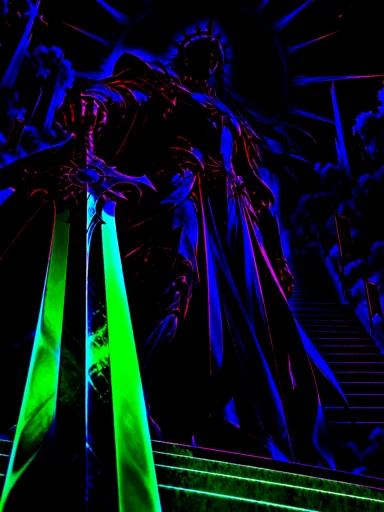
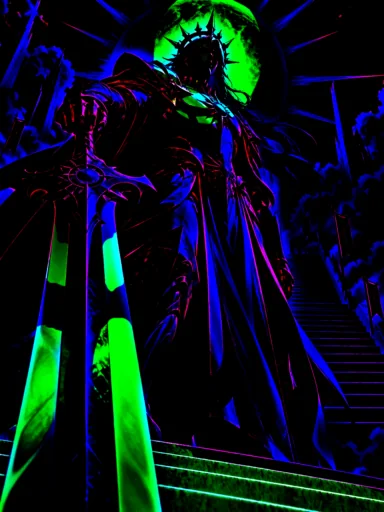
feat(cards): 传说卡与契约神补上眨眼与刚性道具层
五张仍用自动模板的传说/契约神卡补齐：逐日者·索拉（双眼 + 盾）、蚀月狼王（侧脸单眼）、
守灯巨兽（盾与握盾的手）、曙日神·奥瑞恩（双眼 + 按剑的手与长剑）、荒猎神·芬洛斯（单眼）。

- 自动模板支持道具层：AUTO_PROPS 多边形烘焙成刚性前景，着色器里道具随呼吸整体起伏、
  不随外缘摆动（无道具的卡 FR=0，不受影响）。
- 补了眼睛的自动卡在烘焙时把与眼睛深度相近的头部并入人物层：仰拍角色的头原本被分进
  背景，既不眨眼、颈部也会随呼吸错开。背景层也执行眨眼，作为兜底。
- 眨眼修正：上眼睑以下露出的眼睛保持原样，不再把眼白挤成一道亮线（所有角色受益）。
- 自动模板的闪烁改用连续噪声，放大后不再出现棋盘格色块。

diff --git a/src/presentation/live-art.js b/src/presentation/live-art.js
@@ -110,14 +110,15 @@ vec3 blink(vec2 px, vec2 c, vec2 hs, float tilt, float k, inout vec2 skin){
   if (y < top - 7. || y > bot + 1.) return vec3(px, 0.);
   if (y < line - la) w = smoothstep(top - 7., top - 2., y)*smoothstep(0., .12, kk)*smoothstep(0., .3, fx);
   else if (y <= line + lb) y -= span;
-  else y = mix(top + lb, bot, (y - (line + lb))/max(bot - (line + lb), .001));
+  // below the lid the rest of the eye is uncovered, as it is
   skin = toW(vec2(p.x, bot + 5.), c, tilt);
   return vec3(toW(vec2(p.x, y), c, tilt), w);
 }
 void main(){
   vec2 uv = vUv, skinPx = vec2(0.);
   float shade = 0.;
-  if (uLayer == 1) {
+  // The figure's eyes blink; the background layer too, in case a face was left in it.
+  if (uLayer != 2) {
     vec3 bb = vec3(vUv*IMG, 0.);
 ${rig.eyes
   .map(
@@ -170,11 +171,14 @@ ${rig.fx}
     "  d += rot(px, uAnchor.xy, radians(.35)*sin(TAU*t/6.1 + ph)) - px;",
     "  d.x += PER*1.5*sin(TAU*t/3.1 + px.y*.01 + ph);",
     "}",
+    // A held prop (FR) moves rigidly: it rides the breath, never the sway.
+    "d = mix(d, vec2(.5*sin(TAU*t/6.7 + ph), -2.2*(breath(t + ph)*2. - 1.)), FR);",
   ].join("\n");
   const AUTO_FX = [
     "float ph = uPhase;",
-    "vec2 cell = floor(vUv*vec2(200., 266.));",
-    "c.rgb += c.rgb*k.r*(.55*sin(t*(1. + h21(cell)*1.6) + h21(cell + 3.)*6.28) + .1)*uFx;",
+    // continuous noise, not per-cell hashes: enlarged, cells read as blocks
+    "float tw = vn(vUv*vec2(200., 266.))*6.28, sp = 1. + vn(vUv*vec2(90., 120.) + 5.)*1.6;",
+    "c.rgb += c.rgb*k.r*(.55*sin(t*sp + tw) + .1)*uFx;",
     "float flow = vn(vec2(vUv.x*12. + ph, vUv.y*12. - t*.4))*vn(vec2(vUv.x*27. - t*.25, vUv.y*23. + ph));",
     "c.rgb += c.rgb*k.b*((flow - .2)*uGlowAmt + .08*sin(t*TAU/3.3 + ph))*uFx;",
     "float band = dot(vUv - vec2(.5), normalize(vec2(.35, -1.)));",

diff --git a/src/live-art-auto.js b/src/live-art-auto.js
@@ -49,14 +49,14 @@ const EmberLiveArtAuto = Object.freeze({
  "aurion": {
   "kind": "creature",
   "box": [
-   18,
-   618,
-   980,
-   1440
+   24,
+   42,
+   954,
+   1438
   ],
   "centre": [
-   331,
-   1153
+   376,
+   935
   ],
   "particles": "embers",
   "phase": 1.22
@@ -259,14 +259,14 @@ const EmberLiveArtAuto = Object.freeze({
  "eclipsewolf": {
   "kind": "creature",
   "box": [
-   48,
-   1208,
-   1004,
-   1444
+   62,
+   118,
+   988,
+   1442
   ],
   "centre": [
-   529,
-   1340
+   523,
+   1070
   ],
   "particles": "frost",
   "phase": 5.643
@@ -289,14 +289,14 @@ const EmberLiveArtAuto = Object.freeze({
  "fenlos": {
   "kind": "creature",
   "box": [
-   6,
-   588,
-   886,
+   8,
+   86,
+   870,
    1442
   ],
   "centre": [
-   329,
-   1252
+   404,
+   1029
   ],
   "particles": "embers",
   "phase": 5.453
@@ -484,14 +484,14 @@ const EmberLiveArtAuto = Object.freeze({
  "moonguard": {
   "kind": "creature",
   "box": [
-   20,
-   1294,
-   1062,
-   1444
+   44,
+   492,
+   1040,
+   1440
   ],
   "centre": [
-   539,
-   1370
+   532,
+   1075
   ],
   "particles": "frost",
   "phase": 4.58
@@ -769,14 +769,14 @@ const EmberLiveArtAuto = Object.freeze({
  "solaris": {
   "kind": "creature",
   "box": [
-   40,
-   386,
-   1030,
+   44,
+   196,
+   1026,
    1430
   ],
   "centre": [
-   565,
-   980
+   563,
+   933
   ],
   "particles": "embers",
   "phase": 5.001

diff --git a/src/presentation/live-art-rigs.js b/src/presentation/live-art-rigs.js
@@ -356,5 +356,11 @@ const EmberLiveArtRigs = Object.freeze({
       "if (layer == 2) c.rgb += vec3(.7,.75,.9)*rain(vUv, t)*.35*uFx;",
     ].join("\n"),
   },
+  // Legendary cards and contract gods on the auto template: only blinking eyes are
+  // added here (their props come from AUTO_PROPS in tools/bake_live_art.py).
+  solaris: { auto: true, eyes: [{c: [523, 191], hs: [15, 6], tilt: -3}, {c: [577, 193], hs: [14, 6], tilt: 8}] },
+  eclipsewolf: { auto: true, eyes: [{c: [535, 190], hs: [17, 6], tilt: 20}] },
+  aurion: { auto: true, eyes: [{c: [571, 143], hs: [12, 5], tilt: 15}, {c: [609, 160], hs: [8, 4], tilt: 15}] },
+  fenlos: { auto: true, eyes: [{c: [706, 170], hs: [14, 5], tilt: 15}] },
 });
 if (typeof module !== "undefined") module.exports = EmberLiveArtRigs;

diff --git a/tools/bake_live_art.py b/tools/bake_live_art.py
@@ -303,13 +303,45 @@ def card_types():
     return dict(re.findall(r'id:\s*"([\w-]+)",[\s\S]*?type:\s*"(\w+)"', text))
 
 
-def auto_rig(p):
+# Auto cards that also get a rigid prop layer (a held shield or sword): the prop
+# region, in source pixels, kept to what is nearer than the figure behind it.
+# Blinking eyes for auto cards are in src/presentation/live-art-rigs.js.
+AUTO_PROPS = {
+    "solaris": [(651, 383), (765, 350), (912, 407), (920, 912), (863, 960), (765, 960), (667, 912), (635, 684)],
+    "moonguard": [(366, 488), (488, 420), (560, 380), (630, 400), (700, 488), (700, 912), (586, 1205), (488, 1205), (374, 912)],
+    "aurion": [(140, 440), (340, 440), (345, 600), (290, 780), (430, 800), (430, 915), (290, 930), (290, 1448),
+               (140, 1448), (145, 930), (30, 915), (30, 800), (170, 780), (150, 600)],
+}
+
+
+def auto_eyes():
+    """Blinking eyes that src/presentation/live-art-rigs.js adds to auto cards."""
+    text = (ROOT / "src/presentation/live-art-rigs.js").read_text()
+    found = {}
+    for key, body in re.findall(r"(\w+): \{ auto: true, eyes: \[(.*?)\] \}", text):
+        found[key] = [(float(x), float(y)) for x, y in re.findall(r"c: \[([\d.]+), ([\d.]+)\]", body)]
+    return found
+
+
+def auto_rig(p, key=None):
     thr = otsu(p.depth[::4, ::4].ravel())
     share = (p.depth > thr).mean()
     if not 0.05 < share < 0.85:
         # no clear figure against a background: take the nearer part of the scene
         thr = float(np.percentile(p.depth, 55))
-    return dict(fig=thr, front=np.zeros_like(p.lum), ctrl=_auto_ctrl, auto=True)
+    front = p.near(p.poly(AUTO_PROPS[key]), 0.05) if key in AUTO_PROPS else np.zeros_like(p.lum)
+    rig = dict(fig=thr, front=front, plane=key in AUTO_PROPS, ctrl=_auto_ctrl, auto=True)
+    eyes = auto_eyes().get(key)
+    if eyes:
+        # A low-angle figure's head can sit farther back than its body, below the
+        # threshold: then it would not breathe with the body (a seam at the neck)
+        # and its eyes would not blink. Take in what is about as near as the eyes,
+        # within reach of them; sky and halo behind the head stay background.
+        ex, ey = np.mean(eyes, 0)
+        reach = max(90.0, 3.2 * (np.ptp([e[0] for e in eyes]) if len(eyes) > 1 else 40))
+        at = float(np.median([p.depth[int(y), int(x)] for x, y in eyes]))
+        rig["head"] = (1 - ss(reach, reach * 1.6, np.hypot(p.xx - ex, (p.yy - ey) * 0.8))) * ss(at - 0.12, at - 0.05, p.depth)
+    return rig
 
 
 def _auto_ctrl(p, figure, front, bgk, body):
@@ -367,13 +399,15 @@ RIGS = {"oracle": oracle, "paladin": paladin, "archer": archer, "soulguide": sou
 
 def bake(key, session):
     p = Portrait(key, session)
-    rig = RIGS[key](p) if key in RIGS else auto_rig(p)
+    rig = RIGS[key](p) if key in RIGS else auto_rig(p, key)
     rgb, depth = p.rgb, p.depth
     # Hard silhouettes with a ~1px edge: a wide soft edge shows the filled colour
     # behind it as a pale fringe.
     figure = p.blur((depth > rig["fig"]).astype(np.float32), 0.8)
     if "floor" in rig:
         figure *= 1 - rig["floor"]
+    if "head" in rig:
+        figure = np.maximum(figure, p.blur((rig["head"] > 0.5).astype(np.float32), 0.8))
     front = p.blur((rig["front"] > 0.5).astype(np.float32), 0.8)
     figure = np.maximum(figure, front)
     body = figure * (1 - front)

diff --git a/docs/ASSETS.md b/docs/ASSETS.md
@@ -30,7 +30,7 @@ uv run --python 3.12 --no-project --with pillow --with numpy --with onnxruntime 
 
 ### 活立绘（live-art）
 
-英雄选择页的预览卡，以及单独呈现的卡（放大详情卡、神祇舞台、图鉴卡片舞台）若有活立绘，就不再画浮雕卡面，而是活立绘（`presentation/live-art.js`，2026-09-23 用户要求"建模必须和卡片上的图片完全一致"）。四位可选英雄与六张试点卡（星焰神·烬辰、冥月神·瑟弥拉、星陨女王·妮克丝、白霜之王、终焰·阿什拉、雷霆 `storm`）是手工绑定；其余卡牌由烘焙脚本自动绑定（`--auto`）：按深度的 Otsu 阈值分出人物与背景，从剪影算出"主体"（呼吸/浮动）与"外缘"（发丝、衣摆、翅膀、火焰，随风摆动）两张权重写进 `flags` 的 R/G，按卡牌类型套动作模板（随从 = 生物：从脚下呼吸、外缘摆动；法术 = 效果：脉动、外缘闪动；武器 = 物件：浮沉、微转），辉光按颜色流动、细小亮点闪烁、金属扫光，辉光的色相决定粒子（火星 / 冰晶 / 奥术光点 / 叶光）。参数写入 `art/live-art/auto.json` 并生成 `src/live-art-auto.js`，着色器模板在 `live-art.js` 的 `autoRig`；某张卡需要眨眼时，在 `live-art-rigs.js` 里写 `{ auto: true, eyes: [...] }` 只补眼睛，动作仍用模板。自动卡只在卡牌画窗里出现，颜色层存 768×1024、遮罩 384×512。模型就是卡面原画本身：`assets/anime/overrides/<portraitId>.png`（1086×1448）拆成背景、人物、手持道具（星盘与手、长剑与手、弓箭与手、提灯）三层，每层有自己的深度并重建为网格；镜头回正、动作归零时画面与原画逐像素一致（离线测得平均差约 1/255）。被遮挡处用 push-pull 插值补底，只在镜头转动时露出窄边。
+英雄选择页的预览卡，以及单独呈现的卡（放大详情卡、神祇舞台、图鉴卡片舞台）若有活立绘，就不再画浮雕卡面，而是活立绘（`presentation/live-art.js`，2026-09-23 用户要求"建模必须和卡片上的图片完全一致"）。四位可选英雄与六张试点卡（星焰神·烬辰、冥月神·瑟弥拉、星陨女王·妮克丝、白霜之王、终焰·阿什拉、雷霆 `storm`）是手工绑定；其余卡牌由烘焙脚本自动绑定（`--auto`）：按深度的 Otsu 阈值分出人物与背景，从剪影算出"主体"（呼吸/浮动）与"外缘"（发丝、衣摆、翅膀、火焰，随风摆动）两张权重写进 `flags` 的 R/G，按卡牌类型套动作模板（随从 = 生物：从脚下呼吸、外缘摆动；法术 = 效果：脉动、外缘闪动；武器 = 物件：浮沉、微转），辉光按颜色流动、细小亮点闪烁、金属扫光，辉光的色相决定粒子（火星 / 冰晶 / 奥术光点 / 叶光）。参数写入 `art/live-art/auto.json` 并生成 `src/live-art-auto.js`，着色器模板在 `live-art.js` 的 `autoRig`；某张卡需要眨眼时，在 `live-art-rigs.js` 里写 `{ auto: true, eyes: [...] }` 只补眼睛（侧脸可以只有一只），动作仍用模板；烘焙时会把与眼睛深度相近的头部并入人物层，否则仰拍角色的头可能被分进背景，既不眨眼、颈部也会随呼吸错开。需要刚性道具层时在 `tools/bake_live_art.py` 的 `AUTO_PROPS` 里写道具多边形：道具随呼吸整体起伏、不随外缘摆动。目前的传说卡与契约神都已补齐：逐日者·索拉（眼睛 + 盾）、蚀月狼王（单眼）、守灯巨兽（盾与握盾的手；头盔无眼）、曙日神·奥瑞恩（眼睛 + 按剑的手与长剑）、荒猎神·芬洛斯（单眼）。自动卡只在卡牌画窗里出现，颜色层存 768×1024、遮罩 384×512。模型就是卡面原画本身：`assets/anime/overrides/<portraitId>.png`（1086×1448）拆成背景、人物、手持道具（星盘与手、长剑与手、弓箭与手、提灯）三层，每层有自己的深度并重建为网格；镜头回正、动作归零时画面与原画逐像素一致（离线测得平均差约 1/255）。被遮挡处用 push-pull 插值补底，只在镜头转动时露出窄边。
 
 `art/live-art/<id>-{bg,body,front,depth,ctrl,flags}.webp`（英雄用 portraitId，卡用卡牌 ID；十份共约 3 MB）：`bg` 背景（人物区已补底）；`body` 人物颜色＋alpha（道具区已补底）；`front` 道具颜色＋alpha；`depth` 半尺寸，RGB 分别是三层深度（白 = 近）；`ctrl` 半尺寸，R 星光/流水、G 金属流光、B 辉光遮罩；`flags` 半尺寸，B 为道具遮罩（顶点着色器据此让剑、弓、灯保持刚性）。注册表 `src/live-art-maps.js` 是生成物，不手改：
 
